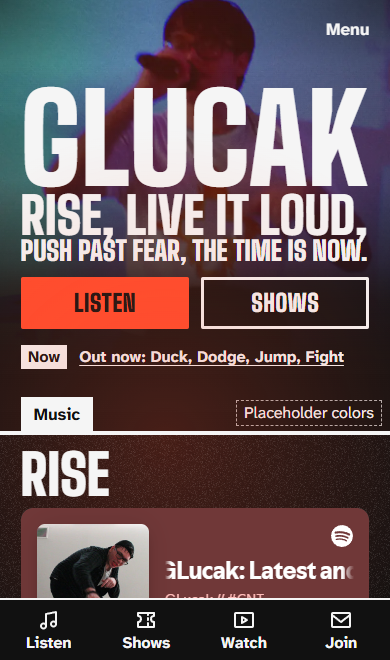
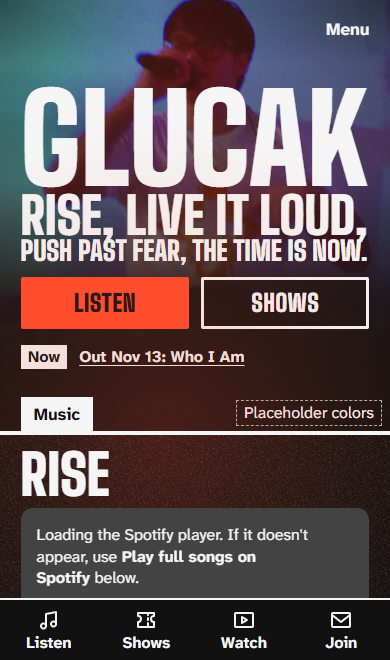
Now line by release date (D45), L2 review fixes (D43), headings never blank (D47)
The Now line picks per visit: a release within 14 days ('Out Nov 13: Who I Am'), 'Out
today', 'Out now' for a week, then the next show or open mic within 14 days, else the
newest release; never 'Pre-save'. The phone bar's Shop needs an available product with a
link; rows go inert and Save waits for uploads while saving; sold-out products sort
last. app.js hides only below-the-fold headings at load, so no-JS and print show every
phrase; buttons get instant :active colour swaps. 105 tests.

Changed region(s): [[0.0308, 0.7576, 0.9538, 0.9091], [0.2769, 0.5152, 0.8923, 0.5758]]

diff --git a/test/shows.test.js b/test/shows.test.js
@@ -101,15 +101,40 @@ test('empty state: never blank, Played rows if any, no Request button without a 
   assert.ok(showsHtml([row({ venue: 'Old' })], now, { past: true }).includes('Played'));
 });
 
-test('Now line: next show within 14 days, else empty so the release line stays; escaped', () => {
-  const now = noon('2026-12-01');
-  assert.equal(nowHtml([row({ date: '2026-12-04', venue: 'Pub', city: 'Philly' })], now), '<a href="#shows">Next show: Pub, Philly</a>');
-  assert.equal(nowHtml([row({ date: '2026-12-04', type: 'open-mic', venue: 'Cafe', city: 'Horsham' })], now), '<a href="#shows">Next open mic: Cafe, Horsham</a>');
-  assert.equal(nowHtml([row({ date: '2026-12-21' })], now), ''); // 20 days
-  assert.equal(nowHtml([row({ date: '2026-12-15' })], now).startsWith('<a'), true); // day 14 counts
-  assert.equal(nowHtml([row({ date: '2026-11-20' })], now), ''); // past
-  const bad = nowHtml([row({ date: '2026-12-04', venue: '<script>x</script>', city: "' OR 1=1 --" })], now);
-  assert.ok(!bad.includes('<script>') && bad.includes('&lt;script&gt;'));
+const WIA = { title: 'Who I Am', date: '2026-11-13', link: 'https://wingsmusic.lnk.to/WhoIAm' };
+const GO = { title: 'Go', date: '2026-03-20', link: 'https://wingsmusic.lnk.to/370407-Go' };
+const link = (href, text, label, rel = ' rel="noopener"') => `<a href="${href}" aria-label="${label}"${rel}>${text}</a>`;
+const OUT13 = link(WIA.link, 'Out Nov 13: Who I Am', 'Who I Am, out Nov 13. Opens the release link');
+
+test('Now line D45: Nov 6 / 13 / 20 / 21 pick Out Nov 13, Out today, Out now, then a show or the newest release', () => {
+  const rels = [GO, WIA];
+  assert.equal(nowHtml([], noon('2026-11-06'), rels), OUT13);
+  assert.equal(nowHtml([], noon('2026-10-30'), rels), OUT13, '14 days ahead');
+  assert.ok(!nowHtml([], noon('2026-10-29'), rels).includes('Out Nov 13'), '15 days ahead: not yet');
+  assert.equal(nowHtml([], noon('2026-11-13'), rels), link(WIA.link, 'Out today: Who I Am', 'Listen to Who I Am'));
+  assert.equal(nowHtml([], noon('2026-11-20'), rels), link(WIA.link, 'Out now: Who I Am', 'Listen to Who I Am'));
+  const show = row({ date: '2026-11-28', venue: 'The Rail', city: 'Doylestown' });
+  assert.equal(nowHtml([show], noon('2026-11-21'), rels), link('#shows', 'Nov 28: The Rail, Doylestown', 'The Rail, Doylestown, Nov 28. Details', ''));
+  assert.equal(nowHtml([], noon('2026-11-21'), rels), link(WIA.link, 'Out now: Who I Am', 'Listen to Who I Am'), 'newest release');
+  assert.equal(nowHtml([row({ date: '2026-12-21' })], noon('2026-11-21'), [GO]), link(GO.link, 'Out now: Go', 'Listen to Go'), 'show too far: newest');
+  assert.equal(nowHtml([], noon('2026-11-21'), []), '', 'nothing at all');
+});
+
+test('Now line D45: a show on the day says Today; a coming release beats a show; day 14 counts, 15 does not', () => {
+  assert.equal(nowHtml([row({ date: '2026-12-01', venue: 'Pub', city: 'Philly' })], noon('2026-12-01'), []), link('#shows', 'Today: Pub, Philly', 'Pub, Philly, Dec 1. Details', ''));
+  assert.equal(nowHtml([row({ date: '2026-11-08' })], noon('2026-11-06'), [GO, WIA]), OUT13);
+  assert.ok(nowHtml([row({ date: '2026-12-15' })], noon('2026-12-01'), []).includes('#shows'));
+  assert.equal(nowHtml([row({ date: '2026-12-16' })], noon('2026-12-01'), []), '');
+  assert.equal(nowHtml([row({ date: '2026-11-20' })], noon('2026-12-01'), []), ''); // past
+  assert.ok(!nowHtml([], noon('2026-11-06'), [WIA]).includes('Pre-save'));
+});
+
+test('Now line D45: everything escaped, release links http(s) only', () => {
+  const bad = nowHtml([row({ date: '2026-12-04', venue: '<script>x</script>', city: "' OR 1=1 --" })], noon('2026-12-01'), []);
+  assert.ok(!bad.includes('<script>') && bad.includes('&lt;script&gt;') && bad.includes('&#39; OR 1=1 --'));
+  const rel = nowHtml([], noon('2026-11-06'), [{ ...WIA, title: '<img src=x onerror=1>"', link: 'https://x.example/?a="b"&c=<' }]);
+  assert.ok(!rel.includes('<img') && rel.includes('&lt;img') && !rel.includes('"b"'));
+  assert.equal(nowHtml([], noon('2026-11-06'), [{ ...WIA, link: 'javascript:alert(1)' }]), '');
 });
 
 test('poster art: only the poster li has it, rows never', async () => {

diff --git a/src/lib/shows.js b/src/lib/shows.js
@@ -76,14 +76,34 @@ export function showsHtml(rows, now = new Date(), { limit = Infinity, past = fal
   return out;
 }
 
+const dayDiff = (a, b) => Math.round((Date.parse(a) - Date.parse(b)) / 864e5);
+const link = (href, text, label) => `<a href="${esc(href)}"${label ? ` aria-label="${esc(label)}"` : ''}${href === '#shows' ? '' : ' rel="noopener"'}>${esc(text)}</a>`;
+
 /**
- * The Now line's show variant (DESIGN.md section 7, D18): "Next show: Venue, City" ("Next open mic:" for open mics) linked to #shows when the next upcoming
- * row is within 14 days (New York days), else '' so the static release line stays. Escaped like the list.
+ * The Now line (D45, copy in docs/copy/round2.md), picked per visit by New York day. In order:
+ * A release 1-14 days ahead "Out Nov 13: Title"; B release day "Out today: Title"; C 1-7 days after "Out now: Title";
+ * D next show or open mic within 14 days "Nov 20: Venue, City" ("Today: ..." on the day, linking #shows); E newest release "Out now: Title".
+ * '' if nothing applies (the static release line then stays). Escaped; release links http(s) only; never "Pre-save".
+ * Shows are validated rows; `releases` is the raw releases.json list.
  */
-export function nowHtml(rows, now = new Date()) {
+export function nowHtml(rows, now = new Date(), releases = []) {
+  const today = etDay(now);
+  const rel = releases.filter((r) => r && typeof r.title === 'string' && r.title.trim() && typeof r.date === 'string' && validDate(r.date) && httpUrl(r.link))
+    .map((r) => ({ ...r, d: dayDiff(r.date, today) })).sort((a, b) => a.d - b.d);
+  const out = (r, text, label) => link(r.link, text, label);
+  const a = rel.find((r) => r.d >= 1 && r.d <= 14), b = rel.find((r) => r.d === 0);
+  const c = rel.filter((r) => r.d < 0 && r.d >= -7).pop();
+  const pretty = (d) => new Date(`${d}T12:00:00Z`).toLocaleDateString('en-US', { month: 'short', day: 'numeric', timeZone: 'UTC' });
+  const listen = (r, text) => out(r, text, `Listen to ${r.title}`);
+  if (a) return out(a, `Out ${pretty(a.date)}: ${a.title}`, `${a.title}, out ${pretty(a.date)}. Opens the release link`);
+  if (b) return listen(b, `Out today: ${b.title}`);
+  if (c) return listen(c, `Out now: ${c.title}`);
   const ok = rows.filter((r) => { try { return validateShow(r); } catch { return false; } });
   const next = splitShows(ok, now).upcoming[0];
-  if (!next) return '';
-  const days = (Date.parse(next.date) - Date.parse(etDay(now))) / 864e5;
-  return days <= 14 ? `<a href="#shows">${next.type === 'open-mic' ? 'Next open mic' : 'Next show'}: ${place(next)}</a>` : '';
+  if (next && dayDiff(next.date, today) <= 14) {
+    const when = next.date === today ? 'Today' : pretty(next.date);
+    return link('#shows', `${when}: ${next.venue}, ${next.city}`, `${next.venue}, ${next.city}, ${pretty(next.date)}. Details`);
+  }
+  const latest = rel.filter((r) => r.d < 0).pop();
+  return latest ? listen(latest, `Out now: ${latest.title}`) : '';
 }

diff --git a/src/styles/global.css b/src/styles/global.css
@@ -135,6 +135,9 @@ p { text-wrap: pretty; }
 .btn-line { background: color-mix(in srgb, var(--bg) 62%, transparent); color: var(--text); }
 .btn-small { min-height: 48px; padding-inline: 1.1rem; font-size: 1.3rem; }
 .btn-show { background: var(--text); color: var(--bg); min-height: 48px; font-size: 1.25rem; padding-inline: 1rem; }
+/* Instant press feedback, no transition (D47). */
+.btn-solid:active { background: var(--text); border-color: var(--text); color: var(--bg); }
+.btn-line:active, .btn-show:active { background: var(--accent); border-color: var(--accent); color: var(--accent-text); }
 @media (hover: hover) {
   .btn-solid:hover { background: var(--text); border-color: var(--text); color: var(--bg); }
   .btn-line:hover { background: var(--text); color: var(--bg); }
@@ -187,6 +190,7 @@ html[data-home][data-motion] .site-header:not(.is-solid):not(:has(details[open])
   display: flex; align-items: center; min-height: 56px;
   font-family: var(--font-display); font-weight: 900; font-size: 2.25rem; text-transform: uppercase; text-decoration: none;
 }
+.sheet a:active { background: var(--accent); color: var(--accent-text); }
 @media (min-width: 900px) {
   :root { --header-h: 72px; }
   .nav-desktop { display: flex; }
@@ -314,9 +318,11 @@ html[data-hero='b'] .slot img { width: 100%; height: 100%; object-fit: cover; ob
 .ln-now2 { font-size: calc(100cqi / var(--w-now2)); margin-top: 0.06em; }
 
 @media (prefers-reduced-motion: no-preference) {
-  html[data-motion='on'] .fade .phrase { opacity: 0; transition: opacity 0.6s ease-out; }
-  html[data-motion='on'] .fade.seen .phrase { opacity: 1; }
+  /* app.js adds .fade-wait, and only to headings below the first screen at load: no JS, no blank phrases (D47). */
+  html[data-motion='on'] .fade.fade-wait .phrase { opacity: 0; transition: opacity 0.6s ease-out; }
+  html[data-motion='on'] .fade.fade-wait.seen .phrase { opacity: 1; }
 }
+@media print { .fade .phrase { opacity: 1 !important; transition: none !important; } }
 
 /* ---------- Rise ---------- */
 .rise-player { margin-top: var(--space-s); }
@@ -577,6 +583,8 @@ iframe.yt { width: 100%; border: 0; }
 /* The whole card is one link to its detail (#product-<id>). No hover animation (section 8): only the name underlines. */
 .product-link { position: relative; display: grid; gap: 0.35rem; align-content: start; height: 100%; text-decoration: none; }
 .product-link:focus-visible { outline-offset: 4px; }
+.product-card:active .product-media { filter: brightness(0.85); }
+.product-card:active .product-name { text-decoration: underline; text-decoration-thickness: 0.06em; text-underline-offset: 0.1em; }
 @media (hover: hover) { .product-link:hover .product-name { text-decoration: underline; text-decoration-thickness: 0.06em; text-underline-offset: 0.1em; } }
 .product-media {
   display: block; width: 100%; height: auto; aspect-ratio: 1; object-fit: cover;

diff --git a/public/js/edit.js b/public/js/edit.js
@@ -134,6 +134,7 @@
   const TYPES = [['shirt', 'Shirt'], ['hoodie', 'Hoodie'], ['cd', 'CD'], ['vinyl', 'Vinyl'], ['sticker', 'Sticker'], ['other', 'Other']];
   const STATUSES = [['coming-soon', 'Coming soon'], ['available', 'Available (shows Buy once it has a Link)'], ['sold-out', 'Sold out'], ['sample', 'Sample (shows Coming soon, no price)']];
   const SHORT = { 'coming-soon': 'Coming soon', available: 'Available', 'sold-out': 'Sold out', sample: 'Sample' };
+  let uploads = 0; // photo uploads on their way
   const IMAGE = /^\/media\/(?:shop\/[a-z0-9]+(?:-[a-z0-9]+)*\.(?:webp|png|jpg)|uploads\/[a-f0-9]{32}\.webp)$/; // same rule as the server
   const UPLOADABLE = ['image/jpeg', 'image/png', 'image/webp'];
   const slug = (s) => s.toLowerCase().normalize('NFKD').replace(/[^a-z0-9]+/g, '-').replace(/^-+|-+$/g, '').slice(0, 60).replace(/-+$/, '');
@@ -178,7 +179,9 @@
       const f = file.files[0];
       if (!f) return;
       say(upMsg, 'Uploading…', 'busy');
-      const r = await upload(f);
+      uploads++;
+      let r;
+      try { r = await upload(f); } finally { uploads--; }
       file.value = '';
       if (!r.path) return say(upMsg, r.message, 'error');
       image.value = r.path;
@@ -335,12 +338,14 @@
   const saving = { shows: false, products: false };
   async function save(kind) {
     if (saving[kind]) return; // no second save while one is on its way
-    const t = T[kind], list = rows(kind), btn = $(kind === 'shows' ? 'save' : 'p-save');
+    const t = T[kind], list = rows(kind), btn = $(kind === 'shows' ? 'save' : 'p-save'), add = $(kind === 'shows' ? 'add' : 'p-add');
+    if (kind === 'products' && uploads) return say(t.msg, 'Uploading…', 'busy'); // an upload would land in a row the reply rebuilds
     for (const r of list) { say(r.err, ''); r.classList.remove('bad'); }
     saving[kind] = true;
     btn.setAttribute('aria-disabled', 'true');
+    t.list.inert = true; add.disabled = true; // edits made now would be replaced by the reply
     say(t.msg, 'Saving…', 'busy');
-    try { await send(kind, t, list); } finally { saving[kind] = false; btn.removeAttribute('aria-disabled'); }
+    try { await send(kind, t, list); } finally { saving[kind] = false; btn.removeAttribute('aria-disabled'); t.list.inert = false; add.disabled = false; }
   }
   async function send(kind, t, list) {
     let r;

diff --git a/test/products.test.js b/test/products.test.js
@@ -110,7 +110,7 @@ test('shopLinks: nav + footer follow enabled; the bar swaps Watch for Shop only 
     + '<nav class="phone-bar"><a href="/shows/">Shows</a><!--gl:watch--><a href="/#shows-video"><span>Watch</span></a><!--/gl:watch--></nav>'
     + '<p class="closing"><a href="/shows/">Shows.</a><!--gl:footer-shop--> <a href="#join">Join.</a></p>';
   const samples = [good({ status: 'sample' }), good({ id: 'b', status: 'coming-soon' }), good({ id: 'c', status: 'sold-out' })];
-  const one = [...samples, good({ id: 'd', status: 'available' })];
+  const one = [...samples, good({ id: 'd', status: 'available', link: 'https://shop.example/d' })];
   const off = shopLinks(page, { enabled: false, path: '/', rows: one });
   assert.ok(!off.includes('/shop/') && off.includes('<span>Watch</span>') && !off.includes('gl:nav-shop'), 'off: nothing, even with an available product');
   const only = shopLinks(page, { enabled: true, path: '/shop/', rows: samples });
@@ -141,4 +141,16 @@ test('L2 markup: status classes + words, tape only for sample / sold-out, card i
   const h = html('coming-soon');
   assert.match(h, /<li class="product-card"[^>]*><a class="product-link" href="#product-glucak-tee"><img class="product-media" src="[^"]+" alt=""/);
   assert.match(h, /<article class="product-detail"[^>]*><img class="product-media" src="[^"]+" alt="Tee &quot;x&quot;"/);
+});
+
+test('F1 (D43): an Available product with no link keeps Watch in the bar; one with a link swaps it', () => {
+  const page = '<nav><!--gl:watch--><a href="/watch/"><span>Watch</span></a><!--/gl:watch--></nav>';
+  assert.ok(shopLinks(page, { enabled: true, path: '/', rows: [good({ link: undefined })] }).includes('<span>Watch</span>'));
+  assert.ok(shopLinks(page, { enabled: true, path: '/', rows: [good({ link: 'https://shop.example/t' })] }).includes('<span>Shop</span>'));
+});
+
+test('D49: sold-out products sort last on /shop/, the rest keep their order', () => {
+  const html = productsHtml([good({ id: 'a', name: 'A', status: 'sold-out', order: 0 }), good({ id: 'b', name: 'B', order: 1 }), good({ id: 'c', name: 'C', order: 2 })]);
+  const ids = [...html.match(/<ul class="shop-grid">[\s\S]*?<\/ul>/)[0].matchAll(/href="#product-(\w+)"/g)].map((m) => m[1]);
+  assert.deepEqual(ids, ['b', 'c', 'a']);
 });

diff --git a/server.js b/server.js
@@ -19,6 +19,7 @@ const ROOT = import.meta.dirname;
 const env = process.env;
 const DIST = normalize(env.DIST_DIR || join(ROOT, 'dist')); // normalized, so forward slashes on Windows still match
 const SHOWS = env.SHOWS_FILE || join(ROOT, 'src/data/shows.json'); // the shipped list
+const RELEASES = env.RELEASES_FILE || join(ROOT, 'src/data/releases.json');
 const PRODUCTS = env.PRODUCTS_FILE || join(ROOT, 'src/data/products.json'); // the shipped SAMPLE products
 const PORT = Number(env.PORT) || 8080;
 const PROD = env.NODE_ENV === 'production' || Boolean(env.WEBSITE_SITE_NAME); // App Service sets WEBSITE_SITE_NAME
@@ -71,8 +72,10 @@ function inject(html, path) {
   const shows = html.includes('<!--gl:shows-->'), now = html.includes('<!--gl:now-->');
   if (!shows && !now) return html;
   const rows = readShows(DATA, SHOWS);
-  if (now) { // a show within 14 days replaces the static release line between the markers; otherwise the release line stays
-    const line = nowHtml(rows, new Date());
+  if (now) { // D45: the dated line replaces the static one between the markers; '' leaves the static one
+    let rel = [];
+    try { rel = JSON.parse(readFileSync(RELEASES, 'utf8')); } catch { /* no releases file: shows only */ }
+    const line = nowHtml(rows, new Date(), Array.isArray(rel) ? rel : []);
     if (line) html = html.replace(/<!--gl:now-->[\s\S]*?<!--\/gl:now-->/, () => line);
   }
   return shows ? html.replace('<!--gl:shows-->', () => showsHtml(rows, new Date(), path === '/' ? { limit: 3, allLink: '/shows/' } : { past: true })) : html;

diff --git a/src/lib/products.js b/src/lib/products.js
@@ -73,7 +73,7 @@ export function checkProducts(list) {
 }
 
 const valid = (rows) => rows.filter((r) => { try { return validateProduct(r); } catch { return false; } });
-const sorted = (rows) => valid(rows).sort((a, b) => a.order - b.order || a.name.localeCompare(b.name));
+const sorted = (rows) => valid(rows).sort((a, b) => (a.status === 'sold-out') - (b.status === 'sold-out') || a.order - b.order || a.name.localeCompare(b.name));
 export const price = (cents) => (cents === 0 ? 'Free' : `$${(cents / 100).toFixed(2)}`);
 const buyable = (p) => p.status === 'available' && Boolean(p.link);
 /** The label a fan sees: Buy (a link) only when it's for sale and has the provider's page. */
@@ -111,7 +111,7 @@ const BAG = '<svg viewBox="0 0 24 24" aria-hidden="true"><path d="M5 8h14l-1 12H
  *  something is buyable (D42); `rows` are the products. Off: markers emptied, Watch stays. */
 export function shopLinks(html, { enabled, path, rows = [] }) {
   const cur = path.startsWith('/shop/') ? ' aria-current="page"' : '';
-  const bar = enabled && valid(rows).some((p) => p.status === 'available');
+  const bar = enabled && valid(rows).some(buyable);
   return html
     .replaceAll('<!--gl:nav-shop-->', enabled ? `<a href="/shop/"${cur}>Shop</a>` : '')
     .replace(/<!--gl:watch-->([\s\S]*?)<!--\/gl:watch-->/, (_, watch) => (bar ? `<a href="/shop/"${cur}>${BAG}<span>Shop</span></a>` : watch))

diff --git a/test/build.test.js b/test/build.test.js
@@ -153,3 +153,17 @@ test('shop: /shop/ has the marker; every page carries the empty Shop markers and
     assert.ok(!h.includes('href="/shop/"'), `${p}: no static Shop link`);
   }
 });
+
+test('D47: no phrase hidden by default (only .fade-wait, added by app.js), print shows all, :active has no transition', () => {
+  const css = [...html('/').matchAll(/<style[^>]*>([\s\S]*?)<\/style>/g)].map((m) => m[1]).join('\n');
+  for (const m of css.matchAll(/([^{}]+)\{([^{}]*opacity:\s*0[;}][^{}]*)\}/g)) if (/\.phrase/.test(m[1])) assert.match(m[1], /\.fade-wait/, `hidden phrase needs the JS class: ${m[1]}`);
+  assert.match(css, /@media print\s*\{[^}]*\.fade \.phrase\s*\{[^}]*opacity:\s*1/);
+  for (const sel of ['.btn-solid:active', '.btn-line:active', '.product-card:active', '.sheet a:active', '.phone-bar a:active']) {
+    const rules = [...css.matchAll(/([^{}]*)\{([^{}]*)\}/g)].filter((m) => m[1].includes(sel));
+    assert.ok(rules.length, `${sel} rule`);
+    assert.ok(rules.every((m) => !/transition|animation/.test(m[2])), `${sel} has no transition`);
+  }
+  const app = readFileSync(join(import.meta.dirname, '../public/js/app.js'), 'utf8');
+  assert.ok(app.includes("classList.add('fade-wait')") && app.includes('>= innerHeight'));
+  assert.match(css, /prefers-reduced-motion:\s*no-preference\)\s*\{[^}]*\.fade\.fade-wait/);
+});

diff --git a/test/server.test.js b/test/server.test.js
@@ -17,6 +17,7 @@ writeFileSync(join(dir, 'shows.json'), JSON.stringify([
 ]));
 process.env.DIST_DIR = dir;
 process.env.SHOWS_FILE = join(dir, 'shows.json');
+process.env.RELEASES_FILE = join(dir, 'none.json'); // no releases: the show/static lines are tested here, D45 in shows.test.js
 process.env.DATA_DIR = join(dir, 'data'); // no saved list: the shipped file is used
 const { server, clientIp } = await import('../server.js');
 let base;
@@ -89,8 +90,8 @@ test('Now marker: a show within 14 days replaces the release line; none leaves i
   const fs = await import('node:fs');
   fs.writeFileSync(join(dir, 'index.html'), '<p><!--gl:now--><a>Out now: X</a><!--/gl:now--></p>');
   const near = await (await fetch(`${base}/`)).text(); // shows.json has a show in 5 days
-  assert.ok(near.includes('Next show:') && !near.includes('Out now: X'));
+  assert.ok(near.includes('#shows') && near.includes('&lt;script&gt;') && !near.includes('Out now: X'));
   fs.writeFileSync(join(dir, 'shows.json'), JSON.stringify([{ date: d(20), type: 'show', venue: 'V', city: 'C' }]));
   const far = await (await fetch(`${base}/`)).text();
-  assert.ok(far.includes('Out now: X') && !far.includes('Next show:'));
+  assert.ok(far.includes('Out now: X') && !far.includes('#shows'));
 });

diff --git a/test/shop.test.js b/test/shop.test.js
@@ -223,3 +223,14 @@ test('/edit/ L2: collapsed rows, radio statuses, Stay plain, no innerHTML / XHR 
   assert.ok(js.includes('r.up.disabled = i === 0') && js.includes('r.down.disabled = i === list.length - 1'), 'ends disabled');
   assert.ok(js.includes("btn.setAttribute('aria-disabled', 'true')") && js.includes('if (saving[kind]) return'), 'Save guarded while saving');
 });
+
+test('F2 (D43): Save makes the rows inert and disables Add until the reply; Save waits for a busy upload', async () => {
+  const js = await (await get('/js/edit.js')).text();
+  const fn = js.slice(js.indexOf('async function save(kind)'), js.indexOf('async function send('));
+  const fin = fn.slice(fn.indexOf('finally'));
+  assert.ok(fn.includes('t.list.inert = true') && fn.includes('add.disabled = true'), 'locked while saving');
+  assert.ok(fin.includes('t.list.inert = false') && fin.includes('add.disabled = false'), 'cleared in finally');
+  assert.ok(fn.indexOf('t.list.inert = true') < fn.indexOf('await send('), 'set before the POST');
+  assert.ok(fn.includes("uploads) return say(t.msg, 'Uploading…', 'busy')"), 'upload guard');
+  assert.ok(js.includes('uploads++') && js.includes('finally { uploads--; }'), 'upload counter balanced even on a throw');
+});

diff --git a/public/js/app.js b/public/js/app.js
@@ -48,7 +48,11 @@
   const fades = new IntersectionObserver((list) => {
     for (const e of list) if (e.isIntersecting) { e.target.classList.add('seen'); fades.unobserve(e.target); }
   }, { threshold: 0.2 });
-  document.querySelectorAll('.fade').forEach((n) => fades.observe(n));
+  // Only headings below the first screen at load wait (D47): with no JS, a failed script or print, every phrase shows.
+  document.querySelectorAll('.fade').forEach((n) => {
+    if (n.getBoundingClientRect().top >= innerHeight) n.classList.add('fade-wait');
+    fades.observe(n);
+  });
 
   /* ---------- Sign-up: posts to our own server. Without JS the form posts normally. ---------- */
   const form = $('#signup');

diff --git a/HANDOFF.md b/HANDOFF.md
@@ -61,6 +61,8 @@
   `docs/review/photo-treatments/` DONE (018f486, sheet.png). Picks: hero A (a) era grade, hero B (b) riso / (f) MCCC,
   Live It Loud (c) poster, Push Past Fear (d) crowd, About (e) contact strip (swap its HANDS frame). **Privacy:** the
   child in the crowd is in frame on the current hero A + likely Push Past Fear; (a) and (d) leave him out: swap soon.
+- **Desktop (2026-11-06): verdict rows 2-4 done** (D45 Now line live: 'Out Nov 13: Who I Am'; F1 / F2 / D49; D47
+  headings visible without JS + print, instant :active). `npm test` 105/105. Next: row 7 (port the Laptop's rows 5-6).
 - **Desktop (2026-11-06): L2 ported** (shop :target details, line-art samples, glyph + word statuses; admin collapsed
   rows, radio statuses, overlay upload, Save guard; D42 bar rule). `npm test` 99/99. Claims released except `server.js`, `src/lib/`.
 - **Desktop research round 2 (owner 2026-11-06):** web design + music art, how to do both better. Claimed:
